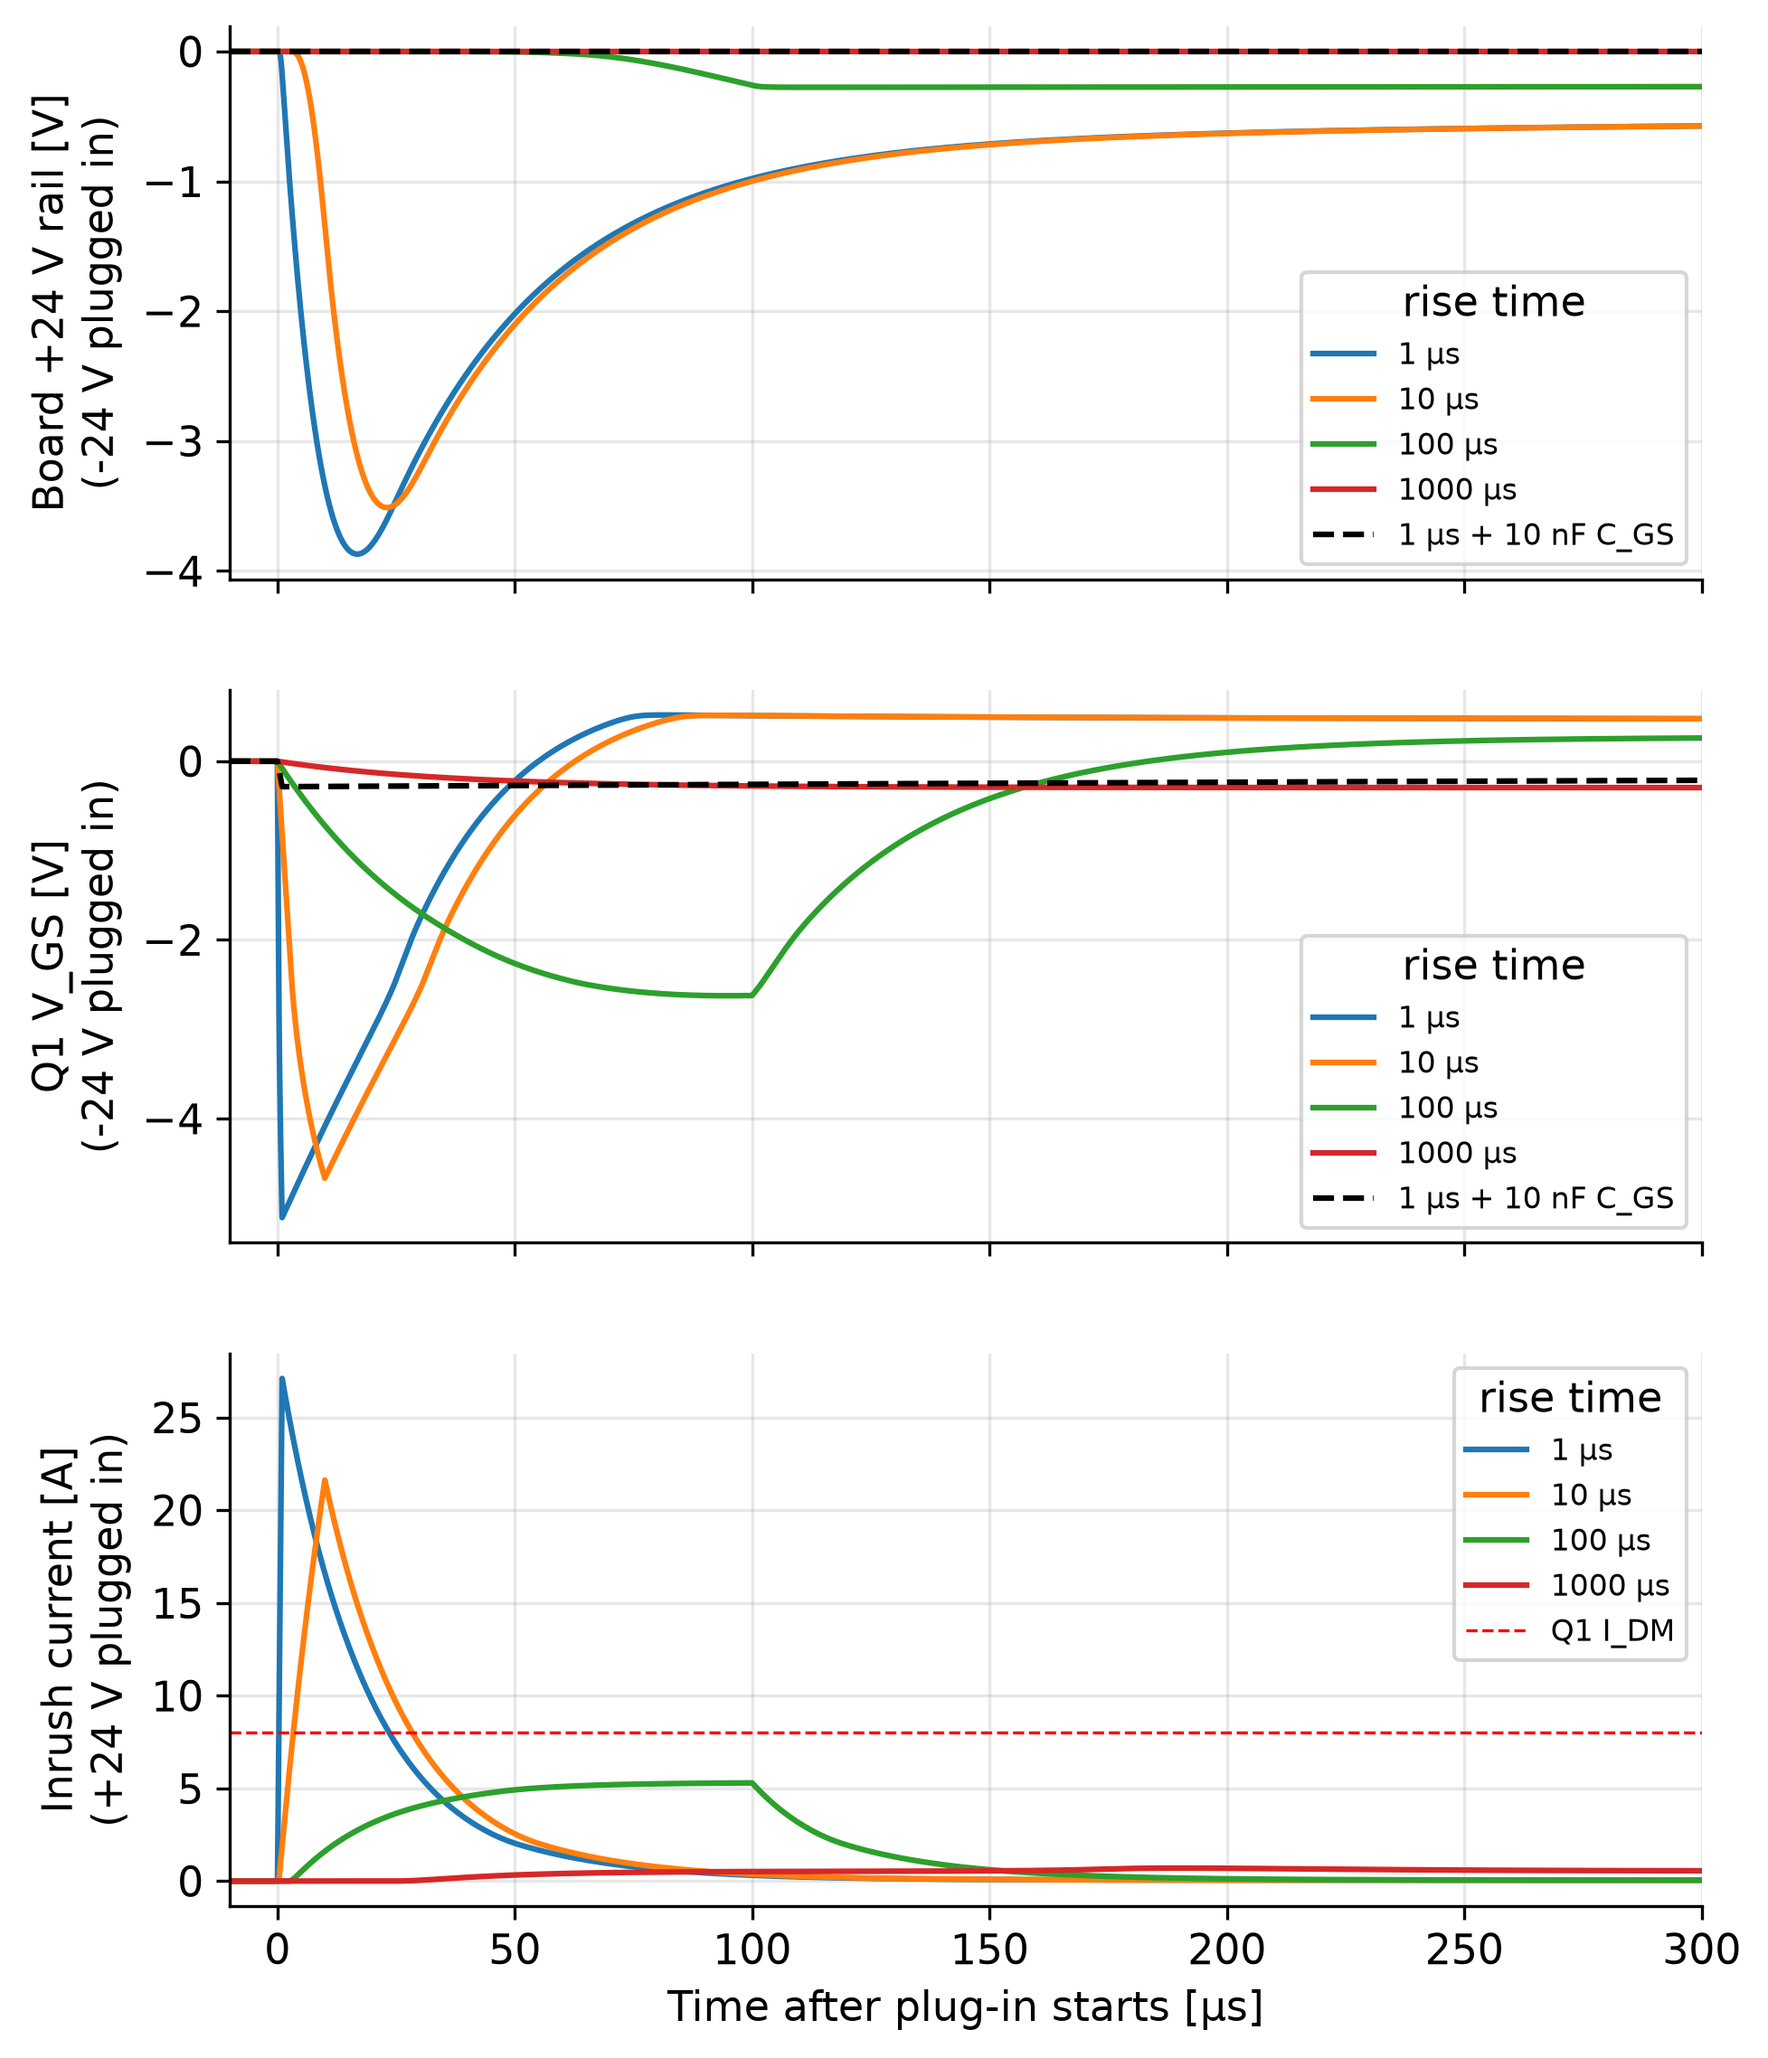
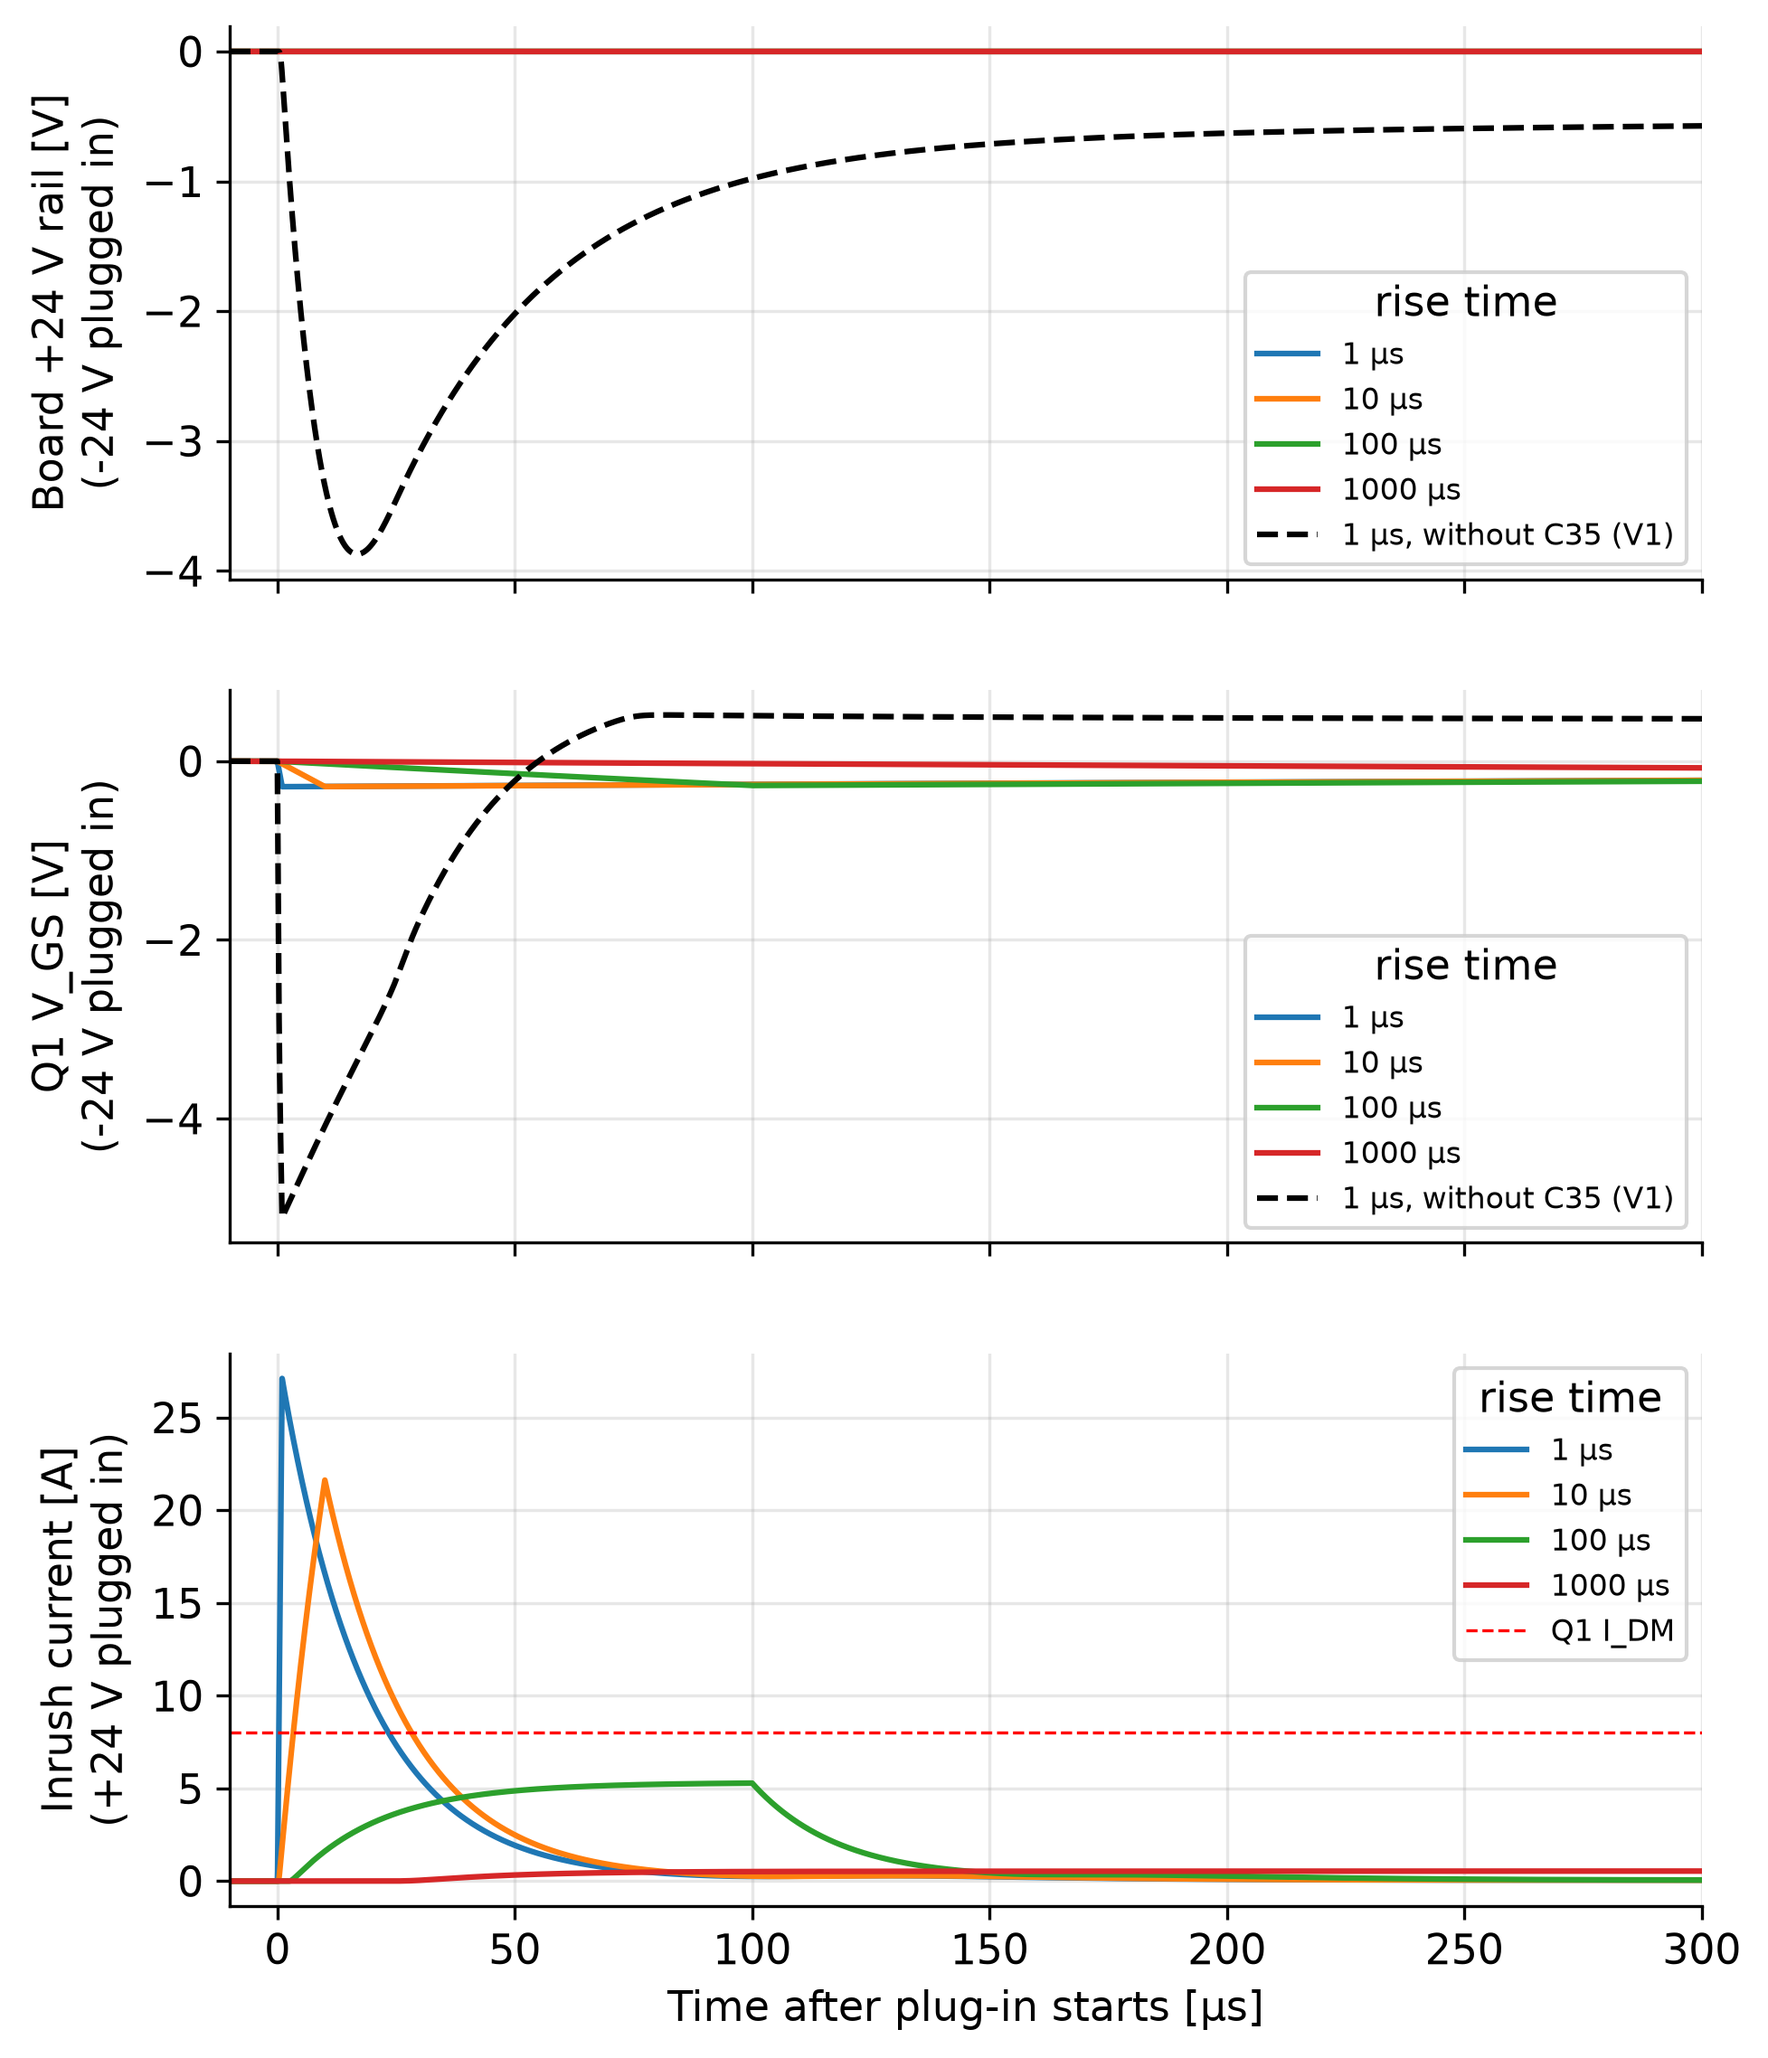
Rerun reverse polarity study with C35 (10 nF Q1 gate-source) from schematic V2.

diff --git a/electrical/05-reverse-polarity/scripts/run_sims.py b/electrical/05-reverse-polarity/scripts/run_sims.py
@@ -3,8 +3,9 @@
     python electrical/05-reverse-polarity/scripts/run_sims.py
 
 The supply ramps from 0 to +/-24 V over a range of rise times, because a fast edge couples
-through Q1's Crss onto its gate. The reversed case is run as built and with the proposed
-gate-source capacitor. Writes results/summary_sims.csv and figures.
+through Q1's Crss onto its gate. The board (V2) has C35 = 10 nF gate-source to stop that; the
+reversed case is also run without C35 (board V1) for comparison. Writes
+results/summary_sims.csv and figures.
 """
 import sys
 
@@ -20,10 +21,11 @@ T_START = 100e-6
 RISE_TIMES = (1e-6, 10e-6, 100e-6, 1e-3)
 
 
-def hot_plug(v_in, t_rise, c_gs=CRIT["cgs_ext_none"]):
-    raw = run_ngspice(P["model"] / "rev_pol.cir", P["results"], name="rev_pol",
-                      params={"VIN": v_in, "TRISE": t_rise, "RLOAD": CRIT["rload"],
-                              "CGSEXT": c_gs})
+def hot_plug(v_in, t_rise, without_c35=False):
+    params = {"VIN": v_in, "TRISE": t_rise, "RLOAD": CRIT["rload"]}
+    if without_c35:
+        params["C35"] = CRIT["c35_absent"]
+    raw = run_ngspice(P["model"] / "rev_pol.cir", P["results"], name="rev_pol", params=params)
     t = np.real(trace(raw, "time"))
     v_out = np.real(trace(raw, "v(vout)"))
     return {
@@ -35,17 +37,17 @@ def hot_plug(v_in, t_rise, c_gs=CRIT["cgs_ext_none"]):
     }
 
 
-def plot(reverse, reverse_fix, forward):
+def plot(reverse, reverse_v1, forward):
     fig, axes = plt.subplots(3, 1, figsize=(7, 9), sharex=True)
     for t_rise, r in reverse.items():
         label = f"{t_rise * 1e6:g} µs"
         axes[0].plot((r["t"] - T_START) * 1e6, r["v_out"], label=label)
         axes[1].plot((r["t"] - T_START) * 1e6, r["v_gs"], label=label)
-    fast = min(reverse_fix)
-    r = reverse_fix[fast]
-    fix_label = f"{fast * 1e6:g} µs + {CRIT['cgs_ext_proposed'] * 1e9:g} nF C_GS"
-    axes[0].plot((r["t"] - T_START) * 1e6, r["v_out"], "k--", label=fix_label)
-    axes[1].plot((r["t"] - T_START) * 1e6, r["v_gs"], "k--", label=fix_label)
+    fast = min(reverse_v1)
+    r = reverse_v1[fast]
+    v1_label = f"{fast * 1e6:g} µs, without C35 (V1)"
+    axes[0].plot((r["t"] - T_START) * 1e6, r["v_out"], "k--", label=v1_label)
+    axes[1].plot((r["t"] - T_START) * 1e6, r["v_gs"], "k--", label=v1_label)
     for t_rise, r in forward.items():
         axes[2].plot((r["t"] - T_START) * 1e6, r["i_in"], label=f"{t_rise * 1e6:g} µs")
     axes[0].set_ylabel("Board +24 V rail [V]\n(-24 V plugged in)")
@@ -62,9 +64,9 @@ def plot(reverse, reverse_fix, forward):
 def main():
     apply_style()
     reverse = {tr: hot_plug(-CRIT["v_in"], tr) for tr in RISE_TIMES}
-    reverse_fix = {tr: hot_plug(-CRIT["v_in"], tr, CRIT["cgs_ext_proposed"]) for tr in RISE_TIMES}
+    reverse_v1 = {tr: hot_plug(-CRIT["v_in"], tr, without_c35=True) for tr in RISE_TIMES}
     forward = {tr: hot_plug(CRIT["v_in"], tr) for tr in RISE_TIMES}
-    plot(reverse, reverse_fix, forward)
+    plot(reverse, reverse_v1, forward)
 
     rows = []
     for tr, r in reverse.items():
@@ -74,15 +76,19 @@ def main():
             check(f"Q1 |V_GS| max ({tag})", np.abs(r["v_gs"]).max(), "V", max=CRIT["vgs_max"]),
             check(f"Supply current peak ({tag})", np.abs(r["i_in"]).max(), "A"),
         ]
-    fix_nf = CRIT["cgs_ext_proposed"] * 1e9
-    for tr, r in reverse_fix.items():
-        rows.append(check(f"Board rail min (reverse, {tr * 1e6:g} us, {fix_nf:g} nF C_GS)",
-                          r["v_out"].min(), "V", min=CRIT["vout_min"]))
+    for tr, r in reverse_v1.items():
+        rows.append(check(f"Board rail min (reverse, {tr * 1e6:g} us, without C35)",
+                          r["v_out"].min(), "V"))
     rows.append(check("Reverse leakage, Q1 IDSS (datasheet max)", CRIT["idss_max"] * 1e6, "uA"))
     for tr, r in forward.items():
         rows.append(check(f"Inrush peak (forward, {tr * 1e6:g} us rise)", r["i_in"].max(), "A",
                           max=CRIT["q1_idm"]))
     steady = forward[RISE_TIMES[-1]]
+    fast = forward[RISE_TIMES[0]]
+    on = np.abs(fast["v_gs"]) >= CRIT["vgs_on"]
+    t_on = fast["t"][np.argmax(on)] - T_START if on.any() else np.nan
+    rows.append(check(f"Forward: time to |V_GS| > {CRIT['vgs_on']:g} V (1 us plug-in)",
+                      t_on * 1e3, "ms"))
     rows += [
         check("Forward: Q1 drop at load current", steady["v_ds"][-1] * 1e3, "mV"),
         check("Forward: Q1 |V_GS| (zener clamped)", np.abs(steady["v_gs"][-1]), "V",

diff --git a/electrical/05-reverse-polarity/README.md b/electrical/05-reverse-polarity/README.md
@@ -7,7 +7,7 @@
 
 ## Goal
 Check the 24 V input stage (schematic sheet 2): J1 → F1 → SMAJ33CA → Q1 (Si2309CDS high-side
-PMOS, R3 gate pull-down, ZD1 15 V gate clamp) → board +24 V.
+PMOS, R3 gate pull-down, ZD1 15 V gate clamp, **C35 10 nF gate-source**) → board +24 V.
 
 1. **Reversed supply (sim 9):** −24 V plugged in. The supply's rise time is swept from 1 µs
    to 1 ms, because a fast edge couples through Q1's C_rss onto its gate.
@@ -23,7 +23,8 @@ PMOS, R3 gate pull-down, ZD1 15 V gate clamp) → board +24 V.
   - [`model/rev_pol.cir`](model/rev_pol.cir): the input stage, with a 480 Ω load and C1 from
     the parts table. It also includes the two sensor-supply branches (F2/F3 at 2.8 Ω, then
     SMAJ28A to GND), because those TVS diodes forward-conduct if the board rail goes negative.
-  - An optional gate-source capacitor, `CGSEXT`, is in the netlist to test the proposed fix.
+  - C35 (10 nF gate-source, schematic V2) comes from the parts table. The script also runs
+    the reversed cases with C35 set to 1 pF, to show board V1 without it.
 - Q1: Vishay's Si2309CDS model
   ([`shared/spice_models/si2309cds_vishay.lib`](../../shared/spice_models/si2309cds_vishay.lib)).
   It models C_rss as nonlinear, which matters here.
@@ -50,15 +51,18 @@ python electrical/05-reverse-polarity/scripts/run_sims.py
 ## Results
 ![](results/figures/hot_plug.png)
 
-| Reversed supply (−24 V), as built | 1 µs rise | 10 µs | 100 µs | 1 ms | Limit |
+| Reversed supply (−24 V), board V2 with C35 | 1 µs rise | 10 µs | 100 µs | 1 ms | Limit |
 |---|---|---|---|---|---|
-| Board rail minimum | **−3.87 V** | **−3.51 V** | −0.28 V | ~0 | ≥ −0.3 V |
-| | **FAIL** | **FAIL** | PASS (marginal) | PASS | |
-| Q1 \|V_GS\| peak | 5.1 V | 4.7 V | 2.6 V | 0.3 V | ≤ 20 V PASS |
-| Supply current peak | 12.2 A | 9.1 A | 0.19 A | ~0 | info |
-| **With 10 nF gate-source capacitor:** board rail minimum | −0.2 mV | −0.2 mV | −0.2 mV | −0.1 mV | ≥ −0.3 V **PASS** |
+| Board rail minimum | −0.16 mV | −0.16 mV | −0.15 mV | −0.11 mV | ≥ −0.3 V **PASS** |
+| Q1 \|V_GS\| peak | 0.29 V | 0.28 V | 0.27 V | 0.18 V | ≤ 20 V **PASS** |
+| Supply current peak | 20 mA | 2 mA | 0.2 mA | ~0 | info |
+| *Without C35 (board V1):* board rail minimum | −3.87 V | −3.51 V | −0.28 V | ~0 | info |
 
-**A fast reversed hot-plug turns Q1 on.** The drain steps to −24 V, and Q1's gate-drain
+**C35 stops Q1 turning on during a reversed hot-plug.** V_GS stays at about −0.3 V,
+well below the 1 V minimum threshold. The 20 mA peak in the 1 µs case is just C35 and the
+TVS capacitance charging.
+
+**Why C35 is needed (board V1 behaviour).** The drain steps to −24 V, and Q1's gate-drain
 capacitance pulls the gate down with it. R3 (100k) can't hold the gate at 0 V on that time
 scale. V_GS reaches −5 V, which is well past the 1–3 V threshold, so Q1 fully conducts in
 reverse for about 30 µs:
@@ -73,32 +77,36 @@ reverse for about 30 µs:
 V_DS = −30 V. Vishay's model has the real non-linear C_rss, which is several times larger
 near V_DS = 0, exactly where a hot-plug edge starts.
 
-**Fix:** add **10 nF from Q1's gate to its source**, in parallel with ZD1. This capacitor is
+**The fix in V2:** C35, **10 nF from Q1's gate to its source**, in parallel with ZD1. This capacitor is
 much larger than C_rss, so it divides the coupled edge down to −0.28 V, below the threshold.
 The rail then stays at 0 V for every rise time. The cost is a slower forward turn-on
-(R3 × 10 nF ≈ 1 ms). During that millisecond Q1's body diode carries the 50 mA load, which
-is well within its 1.4 A rating. 47 nF also works (−0.06 V), with a 4.7 ms turn-on.
+(R3 × 10 nF ≈ 1 ms time constant). |V_GS| passes 4.5 V, where R_DS(on) is specified, 0.24 ms
+after a fast plug-in. Until then Q1's body diode carries the 50 mA load, well within its 1.4 A
+rating. 47 nF would also work (−0.06 V), with a slower 4.7 ms time constant.
 
 | Forward hot-plug (+24 V) | 1 µs rise | 10 µs | 100 µs | 1 ms | Limit |
 |---|---|---|---|---|---|
-| Inrush peak | 27.1 A | 21.6 A | 5.3 A | 0.70 A | ≤ 8 A |
+| Inrush peak | 27.1 A | 21.6 A | 5.3 A | 0.64 A | ≤ 8 A |
 | | **FAIL** | **FAIL** | PASS | PASS | |
 
-| Forward steady state | Result | Limit | |
+| Forward, with C35 | Result | Limit | |
 |---|---|---|---|
+| Time to \|V_GS\| > 4.5 V after a 1 µs plug-in | 0.24 ms | n/a | info |
 | Q1 drop at 50 mA | 16.4 mV | n/a | info |
 | Q1 \|V_GS\| (ZD1 clamped) | 14.9 V | ≤ 20 V | **PASS** |
 
 With an ideal fast-rising supply, only F1's 0.8 Ω limits the inrush into C1, and the peak
 exceeds Q1's 8 A pulsed rating. The current flows through Q1's body diode before the channel
-turns on, so the gate capacitor does not change it. In a real plug-in, cable inductance and
+turns on, so C35 does not change it. In a real plug-in, cable inductance and
 the supply's own output impedance stretch the edge. A ≥ 70 µs edge keeps the peak under 8 A.
 
 ## Conclusions
-- **Reverse polarity is blocked in steady state** (leakage ≤ 1 µA). **A fast reversed hot-plug
-  is not blocked:** Q1 turns on through its C_rss and drives the board rail to about −4 V.
-  **Add 10 nF gate-source to Q1.** It removes the problem at every rise time, at the cost of a
-  1 ms forward turn-on.
+- **Reverse polarity is blocked, including fast reversed hot-plug, with C35 fitted (V2).**
+  The board rail stays within 0.2 mV of ground for every rise time, and steady leakage is
+  ≤ 1 µA. Without C35 (V1), a fast reversed edge turns Q1 on and drives the rail to about
+  −4 V.
+- C35 still needs a footprint in the schematic. Use 0603 rated ≥ 25 V; it only sees V_GS,
+  which ZD1 clamps at 15 V.
 - Hot-plugging a stiff 24 V supply into the 22 µF C1 can exceed Q1's pulsed rating if the edge
   is faster than about 70 µs. Options:
   - Measure the real plug-in edge with the intended supply and cable.
